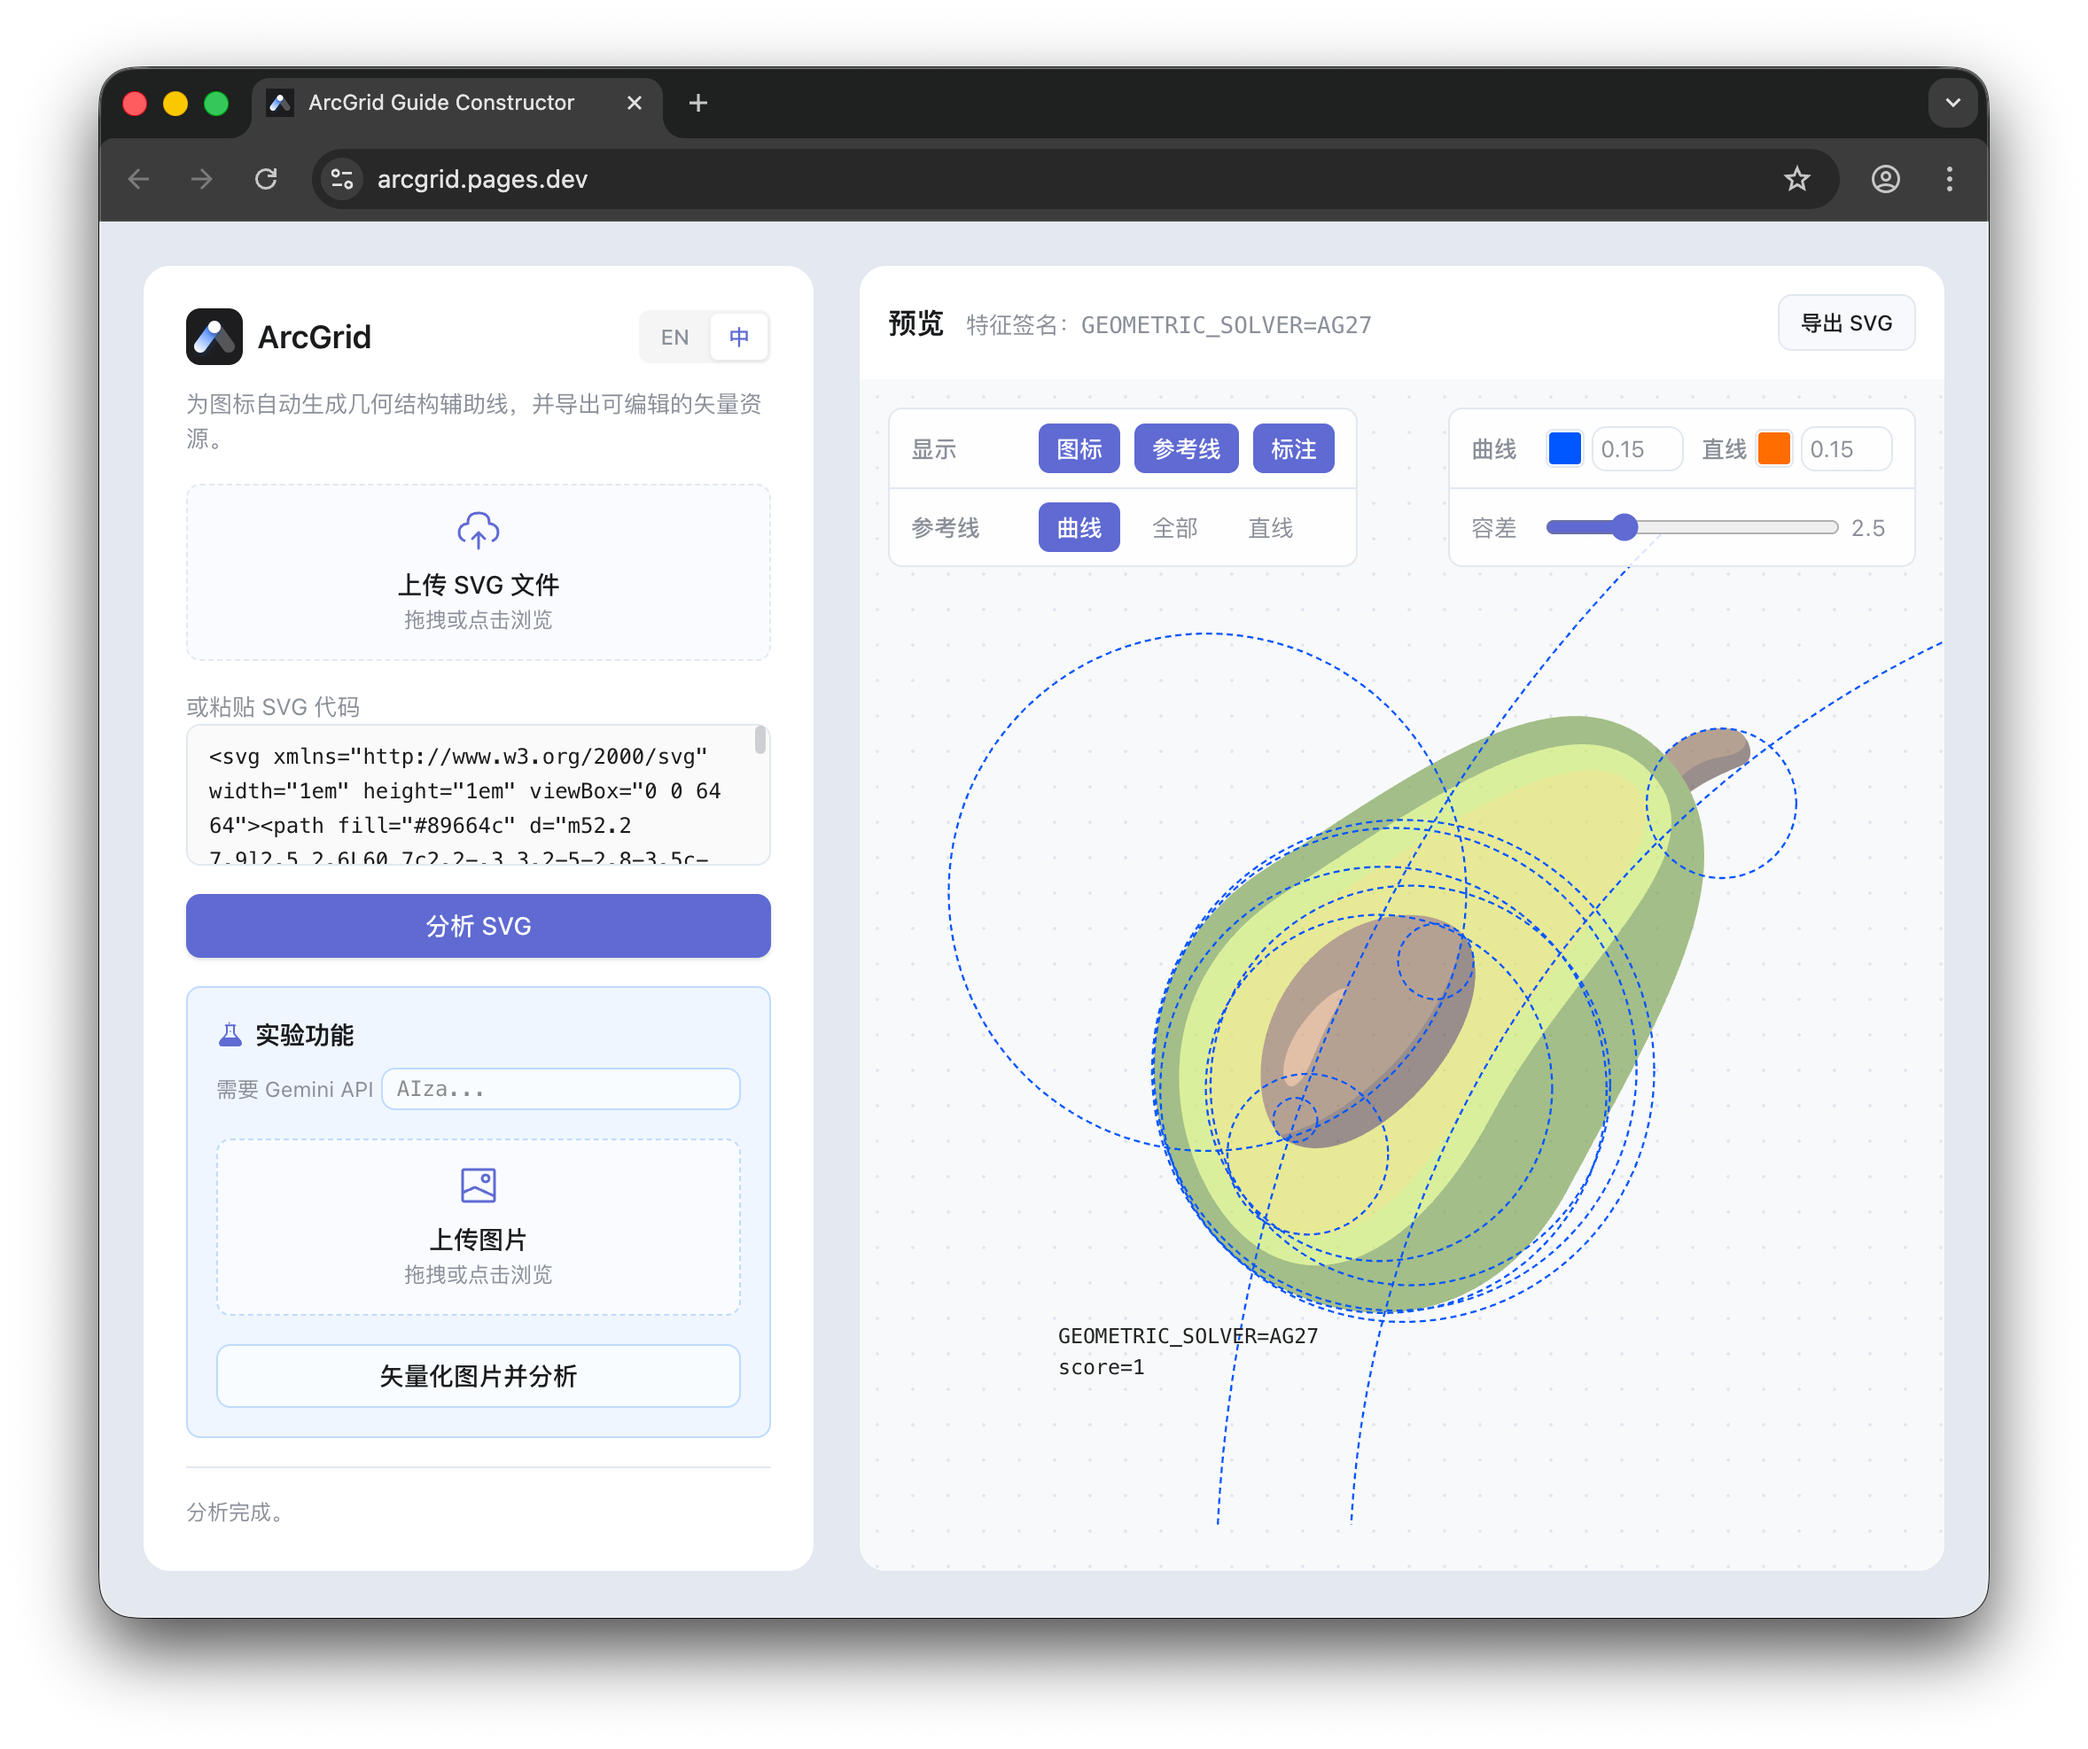
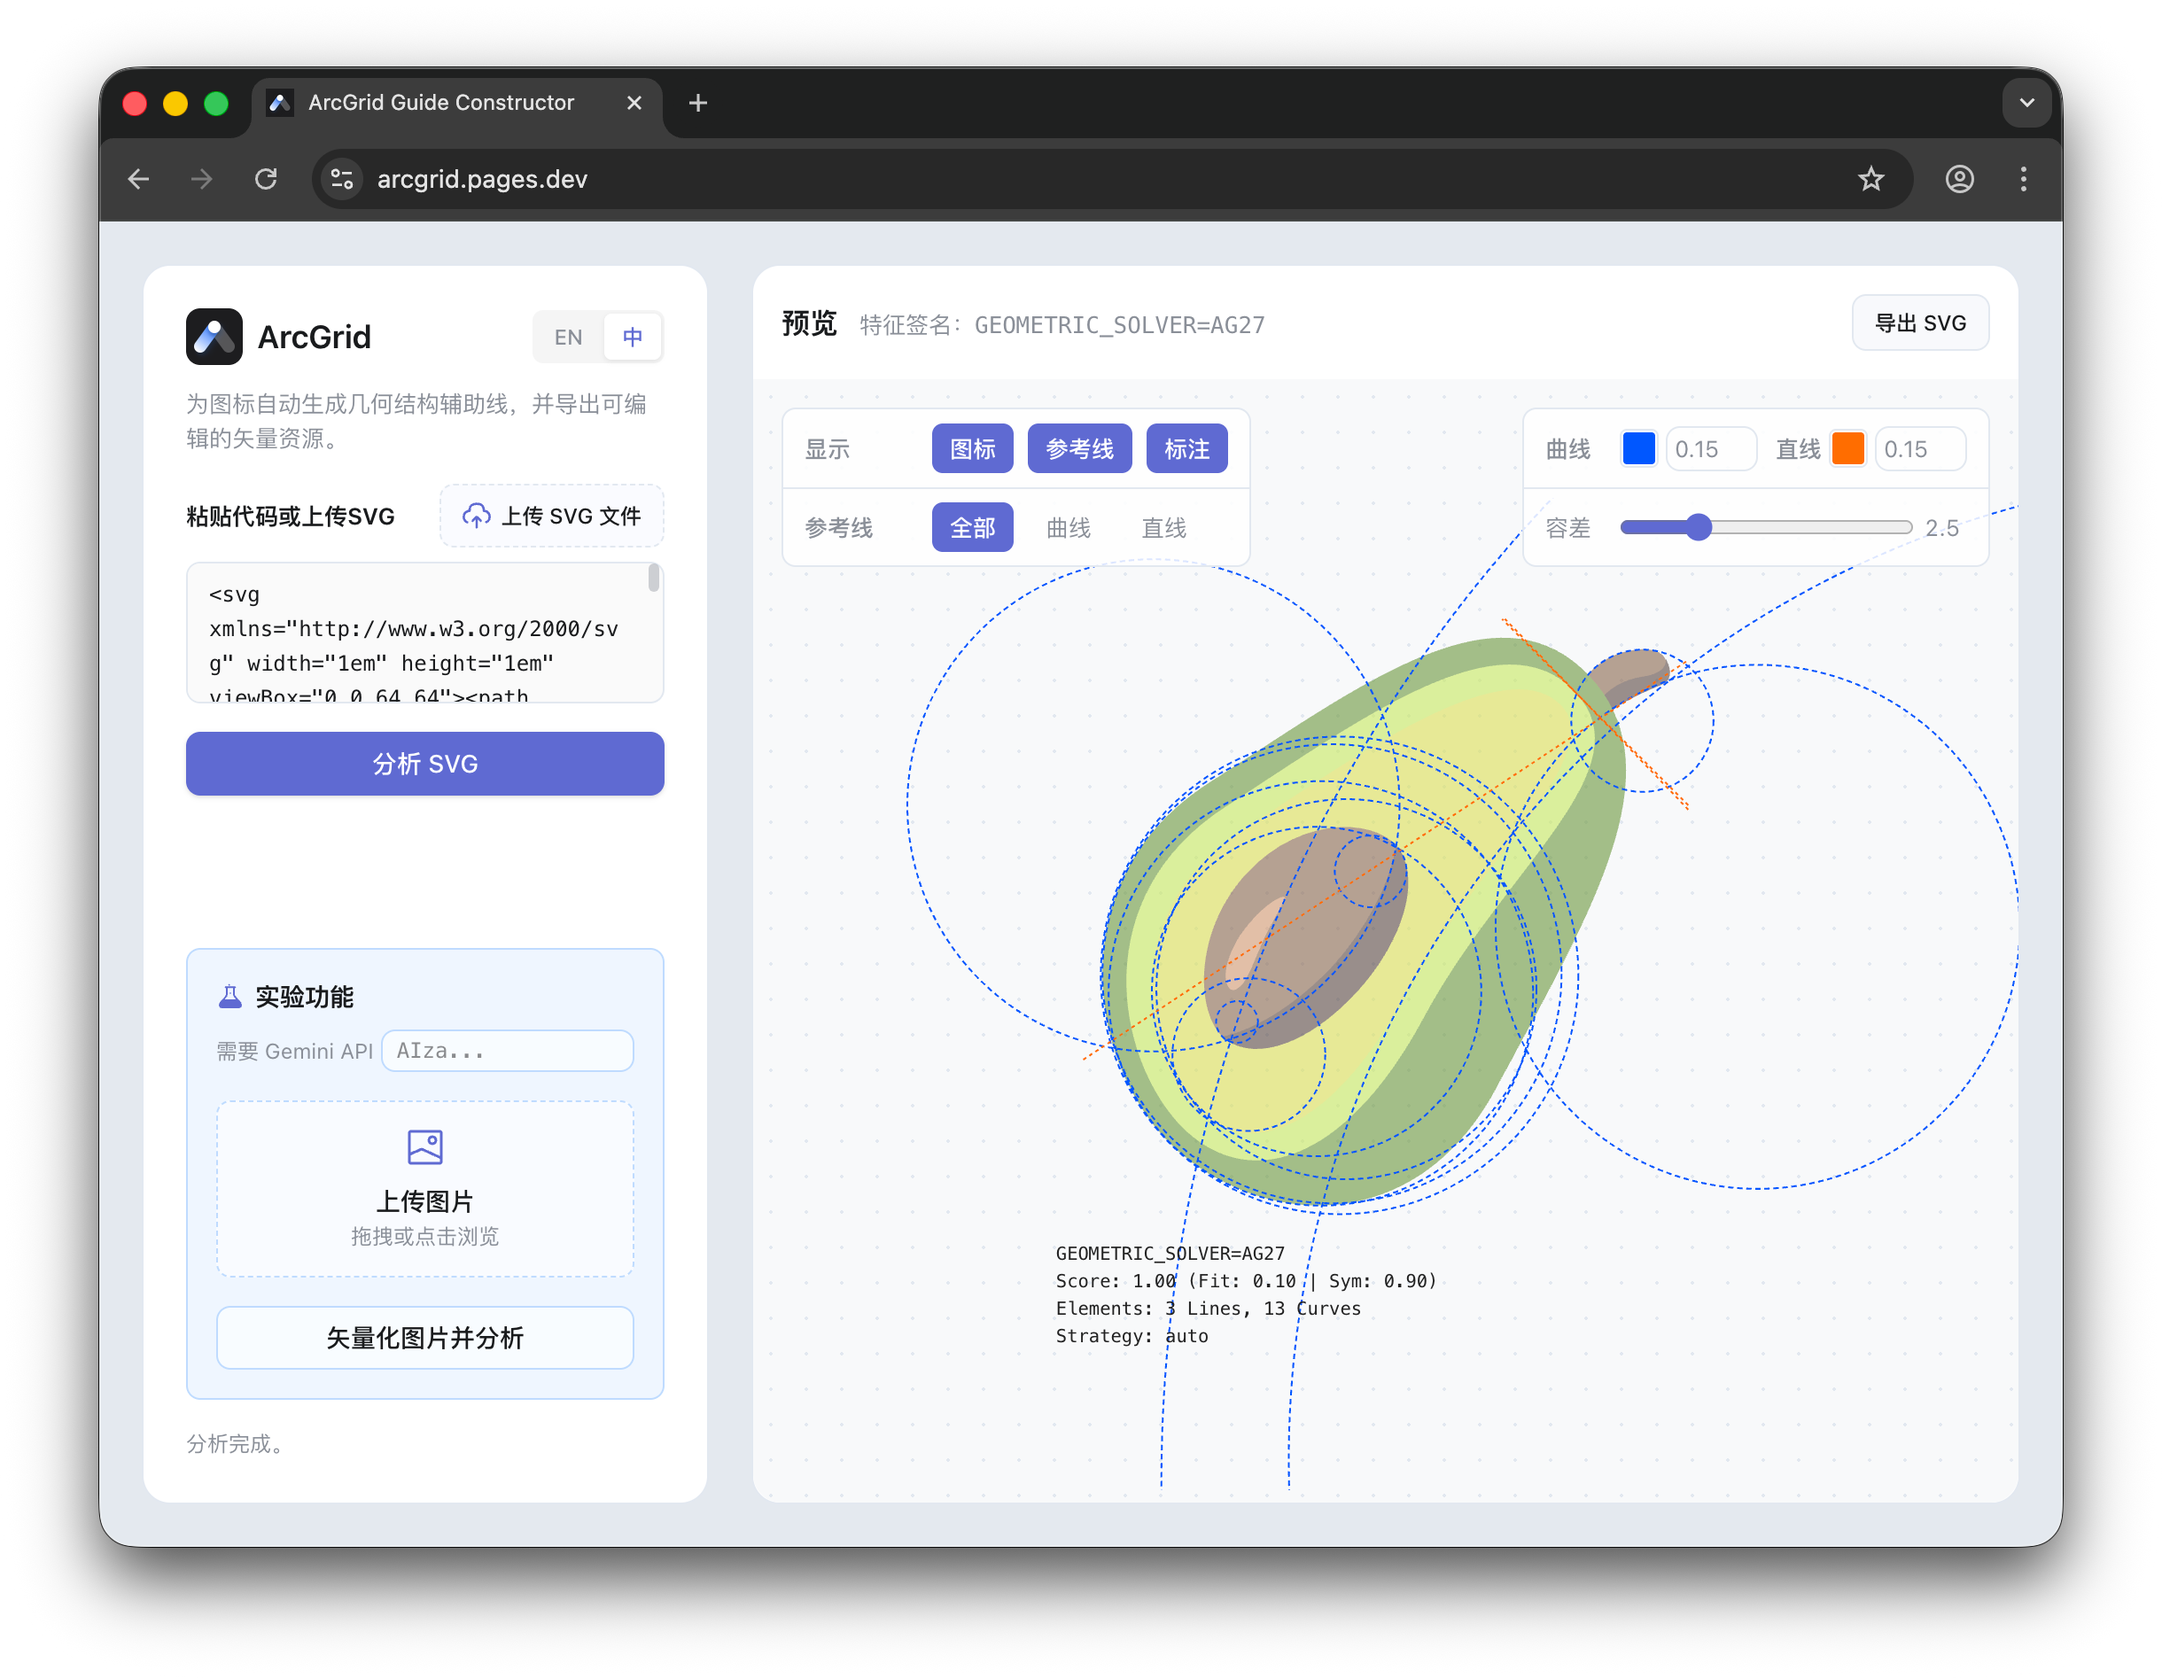
Update README: Chinese/English content and image
Rework README content: swap language order, add and refine Chinese translations, and harmonize English copy. Expand feature descriptions (double-track input, AI vectorization, SVG processing, interactive customization, export), note Gemini model options and localStorage API key handling, and clarify install/run instructions. Also update UI-related notes (image preview/delete, default reference lines, improved SVG parsing with complex transforms). Replace preview image (public/arcgrid_preview.webp).

diff --git a/README.md b/README.md
@@ -1,72 +1,6 @@
 # ArcGrid Guide Lab 📐
 
-[English](#english) | [中文](#中文)
-
----
-
-![ArcGrid Preview](public/arcgrid_preview.webp)
-
-## English
-
-**ArcGrid** is a specialized web application prototype designed for generating manual-style logo construction guides. It automates the process of creating professional construction lines and geometric annotations for logo designs.
-
-**✨ Live Demo:** [https://arcgrid.pages.dev/](https://arcgrid.pages.dev/)
-
-### ✨ Key Features
-
-- **Double-Track Input System**:
-  - **SVG Direct Input**: Upload or paste SVG code to analyze existing vector shapes.
-  - **AI Image Vectorization**: (Experimental) Convert raster images (PNG/JPG) to SVG using Gemini AI before running the construction analysis.
-- **Intelligent Geometry Analysis**:
-  - Automatically detects circles, arcs, and alignment lines to create "Candidate" construction guides.
-  - **Robust SVG Processing**: Automatically handles stroke-to-fill conversions, preserves hollow effects, and ignores non-renderable `<defs>`.
-- **Interactive Customization & Visualization**:
-  - Toggle visibility for the logo, guides, and annotations.
-  - **Adjustable Analysis Tolerance**: Fine-tune geometry detection sensitivity in real-time using the tolerance slider.
-  - **Dynamic Growth Animation**: Visually engaging animated line-drawing effect during SVG rendering.
-  - Adjust guide line colors and weights (Curve vs. Line) in real-time.
-  - Switch between multiple analysis candidates to find the best geometric fit.
-- **Professional Export**: Export your finalized construction guide as high-quality **SVG** or **PDF**.
-
-### 🚀 Getting Started
-
-#### Prerequisites
-
-- Node.js (v18+)
-- npm
-- [Wrangler CLI](https://developers.cloudflare.com/workers/wrangler/install-and-update/) (Optional, for Cloudflare deployment)
-
-#### Installation
-
-```bash
-# Clone the repository
-git clone <repository-url>
-cd ArcGrid
-
-# Install dependencies
-npm install
-```
-
-#### Running the App
-
-```bash
-# Start the development server (runs Tailwind CLI + Wrangler Pages dev)
-npm run dev
-```
-
-The application will be available at `http://localhost:8788`.
-
-### ⚙ API Configuration
-
-No environment variables are required. You can directly input your **Gemini API Key** within the settings panel on the webpage. The AI model is pre-configured to use **gemini-3.1-flash-image-preview**. Your API key will be securely saved in your browser's local storage.
-
-*Note: The Gemini API is required for the experimental image-to-svg vectorization feature.*
-
-### 🛠 Tech Stack
-
-- **Frontend**: Vanilla HTML5, Tailwind CSS, JavaScript (ES Modules).
-- **Backend / Hosting**: Cloudflare Pages Functions (Hono.js).
-- **AI Integration**: Google Gemini API for image analysis and vectorization.
+[中文](#中文) | [English](#english)
 
 ---
 
@@ -81,11 +15,11 @@ No environment variables are required. You can directly input your **Gemini API 
 ### ✨ 核心功能
 
 - **双轨输入系统**:
-  - **SVG 直接输入**: 支持上传或粘贴 SVG 代码，直接对现有矢量形状进行分析。
-  - **AI 图像矢量化**: (实验性) 使用 Gemini AI 将位图 (PNG/JPG) 转换为 SVG，随后进入分析流程。
+  - **SVG 直接输入**: 支持上传或粘贴 SVG 代码，直接对现有矢量形状进行分析。优化了 UI 布局，操作更加便捷。
+  - **AI 图像矢量化**: (实验性) 使用 Gemini AI 将位图 (PNG/JPG) 转换为 SVG，随后进入分析流程。新增上传图像预览与删除功能。
 - **智能几何分析**:
-  - 自动识别圆形、圆弧和对齐线，生成多种“候选”辅助线方案。
-  - **强大的 SVG 处理**: 自动处理描边到填充的转换，保留镂空效果，并智能忽略 `<defs>` 等非渲染内容。
+  - 自动识别圆形、圆弧和对齐线，生成多种“候选”辅助线方案。更优的默认视图，现默认展示所有参考线。
+  - **强大的 SVG 处理**: 自动处理描边到填充的转换，保留镂空效果，智能剔除非渲染内容 `<defs>`。近期修复并增强了具有复杂变换矩阵的 SVG 解析及辅助线对齐问题。
 - **交互式自定义与可视化**:
   - 可动态切换 Logo 层、辅助线层和标注层的显示。
   - **动态容差调整**: 使用滑块实时微调几何特征检测的灵敏度。
@@ -124,7 +58,7 @@ npm run dev
 
 ### ⚙ API 配置
 
-无需配置环境变量。您可以直接在网页的设置面板中输入您的 **Gemini API Key**，AI 模型已预选为 **gemini-3.1-flash-image-preview**。您的 API Key 将被被安全地保存在浏览器的本地存储 (Local Storage) 中。
+无需配置环境变量。您可以直接在网页的设置面板中输入您的 **Gemini API Key**。应用现已支持预选最新的 **gemini-3.1-flash-image-preview** 与 **gemini-2.5-flash-image** 视觉模型。您的 API Key 将被安全地保存在浏览器的本地存储 (Local Storage) 中。
 
 *注意：Gemini API 仅在使用实验性的“图像转 SVG”功能时需要。*
 
@@ -133,6 +67,70 @@ npm run dev
 - **前端**: 原生 HTML5, Tailwind CSS, JavaScript (ES Modules)。
 - **后端 / 部署**: Cloudflare Pages Functions (Hono.js)。
 - **AI 集成**: 接入 Google Gemini API 进行图像分析与矢量化。
+
+---
+
+## English
+
+**ArcGrid** is a specialized web application prototype designed for generating manual-style logo construction guides. It automates the process of creating professional construction lines and geometric annotations for logo designs.
+
+**✨ Live Demo:** [https://arcgrid.pages.dev/](https://arcgrid.pages.dev/)
+
+### ✨ Key Features
+
+- **Double-Track Input System**:
+  - **SVG Direct Input**: Upload or paste SVG code to analyze existing vector shapes, featuring an optimized, compact UI layout.
+  - **AI Image Vectorization**: (Experimental) Convert raster images (PNG/JPG) to SVG using Gemini AI before running the construction analysis. Now supports image preview and deletion capabilities.
+- **Intelligent Geometry Analysis**:
+  - Automatically detects circles, arcs, and alignment lines to create "Candidate" construction guides. Reference lines are now displayed by default for better clarity.
+  - **Robust SVG Processing**: Automatically handles stroke-to-fill conversions, preserves hollow effects, and ignores non-renderable `<defs>`. Enhanced with recent bug fixes for complex transformation matrices resulting in accurate SVG parsing and precise reference line alignment.
+- **Interactive Customization & Visualization**:
+  - Toggle visibility for the logo, guides, and annotations.
+  - **Adjustable Analysis Tolerance**: Fine-tune geometry detection sensitivity in real-time using the tolerance slider.
+  - **Dynamic Growth Animation**: Visually engaging animated line-drawing effect during SVG rendering.
+  - Adjust guide line colors and weights (Curve vs. Line) in real-time.
+  - Switch between multiple analysis candidates to find the best geometric fit.
+- **Professional Export**: Export your finalized construction guide as high-quality **SVG** or **PDF**.
+
+### 🚀 Getting Started
+
+#### Prerequisites
+
+- Node.js (v18+)
+- npm
+- [Wrangler CLI](https://developers.cloudflare.com/workers/wrangler/install-and-update/) (Optional, for Cloudflare deployment)
+
+#### Installation
+
+```bash
+# Clone the repository
+git clone <repository-url>
+cd ArcGrid
+
+# Install dependencies
+npm install
+```
+
+#### Running the App
+
+```bash
+# Start the development server (runs Tailwind CLI + Wrangler Pages dev)
+npm run dev
+```
+
+The application will be available at `http://localhost:8788`.
+
+### ⚙ API Configuration
+
+No environment variables are required. You can directly input your **Gemini API Key** within the settings panel on the webpage. Multiple model options are available, including the latest **gemini-3.1-flash-image-preview** and **gemini-2.5-flash-image**. Your API key will be securely saved in your browser's local storage.
+
+*Note: The Gemini API is required for the experimental image-to-svg vectorization feature.*
+
+### 🛠 Tech Stack
+
+- **Frontend**: Vanilla HTML5, Tailwind CSS, JavaScript (ES Modules).
+- **Backend / Hosting**: Cloudflare Pages Functions (Hono.js).
+- **AI Integration**: Google Gemini API for image analysis and vectorization.
 
 ---
 
